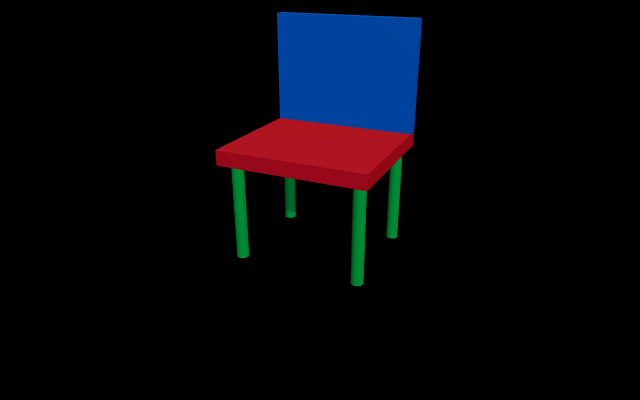
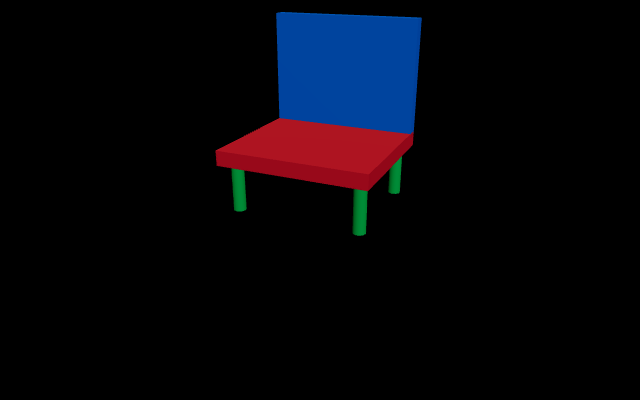
content(audit): track 04-r3f — spot-check pass over all 13 lessons
- portals: Hud sample now renders the main scene before the HUD (priority>0
  disables R3F's automatic render); jsx-mapping: scalar shorthand limited to
  Vector3 props, extend timing, attach-by-type trap; reconciler SVG key label
- disposal: Strict-Mode-safe create-inside-effect taught end to end (theory
  patterns, demo CleanBoxes, fix-leaky-ring exercise); silent re-upload
  symptom for shared-dispose corrected in both locales
- drei: shaderMaterial does not call extend itself; Text = instanced glyph
  quads; Box shorthand has no material; OrbitControls invalidates on every
  change; Environment prefilters inside the renderer; occlusion threshold r/d
- suspense L76: demos lazy-load via React.lazy in lesson-demo-host, not
  server await import; asset-gallery hint dispose claim fixed
- mini-configurator: chair feet now rest on the floor (legs h=0.39 at -0.255),
  reference PNG re-rendered

Changed region(s): [[0.5312, 0.48, 0.625, 0.72], [0.3438, 0.51, 0.4062, 0.66], [0.4375, 0.42, 0.4688, 0.54]]

diff --git a/content/lessons/04-r3f/disposal-and-memory-leaks/exercises.ts b/content/lessons/04-r3f/disposal-and-memory-leaks/exercises.ts
@@ -49,12 +49,12 @@ The plain-JSX version (\`<mesh><sphereGeometry/></mesh>\`): R3F itself creates t
     id: "fix-leaky-ring-with-use-disposable",
     kind: "code",
     prompt: {
-      vi: `Component \`LeakyRing\` bên dưới dựng \`geometry\` và \`material\` bằng \`new THREE.X()\` rồi gắn vào scene qua \`<primitive object={mesh} />\` — đúng trường hợp R3F không tự dispose được. Sửa lại bằng \`useDisposable\` (hook nhà của nền tảng này, \`lib/hooks/use-disposable.ts\`) để \`geometry\` và \`material\` được dispose đúng lúc component unmount — không đổi hình dạng hay màu sắc hiển thị.`,
-      en: `The \`LeakyRing\` component below builds \`geometry\` and \`material\` with \`new THREE.X()\` and attaches them to the scene via \`<primitive object={mesh} />\` — exactly the case R3F can't auto-dispose. Fix it with \`useDisposable\` (this platform's house hook, \`lib/hooks/use-disposable.ts\`) so \`geometry\` and \`material\` get disposed the moment the component unmounts — without changing the rendered shape or color.`,
+      vi: `Component \`LeakyRing\` bên dưới dựng \`geometry\` và \`material\` bằng \`new THREE.X()\` rồi gắn vào scene qua \`<primitive object={mesh} />\` — đúng trường hợp R3F không tự dispose được. Sửa lại bằng \`createDisposableRegistry\` (từ file hook nhà của nền tảng, \`lib/hooks/use-disposable.ts\`): tạo VÀ đăng ký object bên trong một \`useEffect\`, cleanup gọi \`registry.disposeAll()\` — như vậy \`geometry\` và \`material\` được dispose đúng lúc unmount, và chu kỳ unmount/remount giả lập của Strict Mode sẽ dựng bộ object mới thay vì dùng lại object đã bị dispose. Không đổi hình dạng hay màu sắc hiển thị.`,
+      en: `The \`LeakyRing\` component below builds \`geometry\` and \`material\` with \`new THREE.X()\` and attaches them to the scene via \`<primitive object={mesh} />\` — exactly the case R3F can't auto-dispose. Fix it with \`createDisposableRegistry\` (from this platform's house hook file, \`lib/hooks/use-disposable.ts\`): create AND register the objects inside a \`useEffect\` whose cleanup calls \`registry.disposeAll()\` — that way \`geometry\` and \`material\` are disposed the moment the component unmounts, and Strict Mode's simulated unmount/remount cycle builds a fresh set of objects instead of reusing disposed ones. Don't change the rendered shape or color.`,
     },
     starterCode: `import { useMemo } from "react";
 import * as THREE from "three";
-import { useDisposable } from "@/lib/hooks/use-disposable";
+import { createDisposableRegistry } from "@/lib/hooks/use-disposable";
 
 // BUG: geometry/material built with \`new\`, never disposed — every mount
 // leaks one geometry + one material forever.
@@ -69,52 +69,55 @@ function LeakyRing() {
     [geometry, material],
   );
 
-  // TODO: use useDisposable() to register \`geometry\` and \`material\` so
-  // they get disposed automatically when LeakyRing unmounts.
+  // TODO: move the \`new\` calls into a useEffect that owns its own
+  // createDisposableRegistry() — register both objects there and dispose
+  // them in the effect cleanup.
 
   return <primitive object={mesh} />;
 }`,
-    solutionCode: `import { useMemo } from "react";
+    solutionCode: `import { useEffect, useState } from "react";
 import * as THREE from "three";
-import { useDisposable } from "@/lib/hooks/use-disposable";
+import { createDisposableRegistry } from "@/lib/hooks/use-disposable";
 
 function CleanRing() {
-  const disposables = useDisposable();
+  const [mesh, setMesh] = useState<THREE.Mesh | null>(null);
 
-  const geometry = useMemo(
-    () => disposables.register(new THREE.RingGeometry(0.5, 1, 32)),
-    [disposables],
-  );
-  const material = useMemo(
-    () =>
-      disposables.register(new THREE.MeshBasicMaterial({ color: "#f97316" })),
-    [disposables],
-  );
-  const mesh = useMemo(
-    () => new THREE.Mesh(geometry, material),
-    [geometry, material],
-  );
+  // Each effect run owns its registry: Strict Mode's simulated unmount
+  // disposes one set, the re-run builds a fresh one — nothing dead survives.
+  useEffect(() => {
+    const registry = createDisposableRegistry();
+    const geometry = registry.register(new THREE.RingGeometry(0.5, 1, 32));
+    const material = registry.register(
+      new THREE.MeshBasicMaterial({ color: "#f97316" }),
+    );
+    setMesh(new THREE.Mesh(geometry, material));
+    return () => {
+      registry.disposeAll();
+      setMesh(null);
+    };
+  }, []);
 
+  if (!mesh) return null;
   return <primitive object={mesh} />;
 }`,
     hints: [
       {
-        vi: "`useDisposable()` trả về một registry ổn định qua re-render — gọi `registry.register(obj)` ngay chỗ bạn `new` ra `obj`, nó trả lại chính `obj` đó nguyên vẹn.",
-        en: "`useDisposable()` returns a registry that's stable across re-renders — call `registry.register(obj)` right where you `new` up `obj`; it hands `obj` straight back unchanged.",
+        vi: "Chuyển các lệnh `new THREE.X()` vào trong một `useEffect([])`: mỗi lần effect chạy tự tạo `createDisposableRegistry()` riêng, `registry.register(obj)` trả lại chính `obj` nguyên vẹn, và cleanup gọi `registry.disposeAll()`.",
+        en: "Move the `new THREE.X()` calls inside a `useEffect([])`: each effect run creates its own `createDisposableRegistry()`, `registry.register(obj)` hands `obj` straight back unchanged, and the cleanup calls `registry.disposeAll()`.",
       },
       {
-        vi: "Thêm `disposables` vào dependency array của mỗi `useMemo` liên quan — registry ổn định nên không gây tạo lại geometry/material mỗi lần render.",
-        en: "Add `disposables` to the dependency array of each relevant `useMemo` — the registry is stable, so this doesn't cause geometry/material to be recreated on every render.",
+        vi: "Mesh giờ sinh ra trong effect nên phải đi qua state (`useState<THREE.Mesh | null>`) để tới được JSX — render `null` cho tới khi mesh tồn tại.",
+        en: "The mesh is now born inside the effect, so it must travel through state (`useState<THREE.Mesh | null>`) to reach JSX — render `null` until it exists.",
       },
     ],
     checklist: [
       {
-        vi: "Cả `geometry` và `material` đều được bọc qua `disposables.register(...)`",
-        en: "Both `geometry` and `material` are wrapped through `disposables.register(...)`",
+        vi: "Cả `geometry` và `material` đều được tạo và `register(...)` bên trong effect, cleanup gọi `registry.disposeAll()`",
+        en: "Both `geometry` and `material` are created and `register(...)`-ed inside the effect, with the cleanup calling `registry.disposeAll()`",
       },
       {
-        vi: "`disposables` nằm trong dependency array của cả hai `useMemo` liên quan",
-        en: "`disposables` is included in the dependency array of both relevant `useMemo` calls",
+        vi: "Không còn `useMemo` nào giữ object disposable — dưới Strict Mode object memo hoá sẽ quay lại ở trạng thái đã bị dispose",
+        en: "No `useMemo` holds a disposable object anymore — under Strict Mode a memoized object would come back already disposed",
       },
       {
         vi: "Component vẫn render đúng chiếc nhẫn màu cam như trước khi sửa, chỉ khác ở việc dispose khi unmount",

diff --git a/content/lessons/04-r3f/drei-essentials/exercises.ts b/content/lessons/04-r3f/drei-essentials/exercises.ts
@@ -18,8 +18,8 @@ Without running code: explain how (A)'s per-frame raycast cost scales with $n$ (
         en: "Each `<Html occlude>` raycasts independently, sharing no result with other instances — n markers means n raycasts, each one sweeping through the scene's meshes looking for the nearest hit.",
       },
       {
-        vi: "Với một quả cầu, một marker bị che khi và chỉ khi nó nằm ở \"nửa sau\" nhìn từ camera — điều này suy ra trực tiếp từ dấu của một dot product, không cần bắn tia hình học thật.",
-        en: "For a sphere, a marker is occluded exactly when it sits on the \"far half\" as seen from the camera — that falls straight out of the sign of a dot product, no real geometric ray needed.",
+        vi: "Với một quả cầu, ranh giới thấy/không thấy là đường chân trời mà camera nhìn thấy trên mặt cầu — một phép so sánh dot product với ngưỡng phụ thuộc bán kính và khoảng cách camera, không cần bắn tia hình học thật.",
+        en: "For a sphere, the visible/hidden boundary is the horizon circle the camera sees on the sphere — one dot-product comparison against a threshold built from the radius and the camera distance, no real geometric ray needed.",
       },
     ],
     checklist: [
@@ -39,12 +39,12 @@ Without running code: explain how (A)'s per-frame raycast cost scales with $n$ (
     solutionNote: {
       vi: `(A) 40× \`<Html occlude>\`: mỗi instance tự raycast từ camera tới đúng điểm neo của NÓ, kiểm tra va chạm với các mesh trong scene — $n$ marker × $m$ mesh occluder nên chi phí xấp xỉ $O(n \\cdot m)$ raycast test mỗi frame, không chia sẻ được giữa các marker dù chúng cùng bị một quả cầu duy nhất che.
 
-(B) Occluder là một quả cầu tâm $C$, bán kính $r$. Marker tại vị trí $P$ bị che khi nó nằm ở nửa hướng ra xa camera: tính \`toMarker = normalize(P - C)\` và \`toCamera = normalize(camera.position - C)\`, marker hiển thị khi \`dot(toMarker, toCamera) > 0\`.
+(B) Occluder là một quả cầu tâm $C$, bán kính $r$; camera cách tâm $d = |camera.position - C|$. Từ khoảng cách hữu hạn, camera thấy ÍT hơn một nửa quả cầu — đường chân trời là vòng tròn tiếp tuyến, nơi $\cos\theta = r/d$. Tính \`toMarker = normalize(P - C)\` và \`toCamera = normalize(camera.position - C)\`: marker hiển thị khi \`dot(toMarker, toCamera) > r / d\` (ngưỡng $0$ — "đúng nửa cầu" — chỉ là xấp xỉ khi camera ở rất xa).
 
 Đây chỉ là một dot product mỗi marker, không raycast, không phụ thuộc số mesh khác trong scene, nên chi phí là $O(n)$ thay vì $O(n \\cdot m)$. Vẫn nên dùng (A) khi occluder không phải hình đơn giản (mesh bất kỳ, nhiều lớp che nhau) hoặc số marker quá ít để chênh lệch hiệu năng còn đáng để viết code riêng.`,
       en: `(A) 40× \`<Html occlude>\`: each instance raycasts from the camera to its OWN anchor point, checking against the scene's meshes — $n$ markers × $m$ occluder meshes means a per-frame cost of roughly $O(n \\cdot m)$ raycast tests, with no sharing between markers even though they're all occluded by the same single sphere.
 
-(B) The occluder is a sphere centered at $C$ with radius $r$. A marker at position $P$ is occluded when it sits on the half facing away from the camera: compute \`toMarker = normalize(P - C)\` and \`toCamera = normalize(camera.position - C)\`; the marker is visible when \`dot(toMarker, toCamera) > 0\`.
+(B) The occluder is a sphere centered at $C$ with radius $r$; the camera sits at distance $d = |camera.position - C|$. From a finite distance the camera sees LESS than half the sphere — the horizon is the tangency circle, where $\cos\theta = r/d$. Compute \`toMarker = normalize(P - C)\` and \`toCamera = normalize(camera.position - C)\`: the marker is visible when \`dot(toMarker, toCamera) > r / d\` (the $0$ threshold — "exactly half the sphere" — is only the far-camera approximation).
 
 That's one dot product per marker, no raycasting, with no dependency on how many other meshes are in the scene — so the cost is $O(n)$ instead of $O(n \\cdot m)$. Approach (A) is still worth using when the occluder isn't a simple shape (an arbitrary mesh, multiple overlapping occluders) or when the marker count is too small for the performance gap to be worth writing dedicated code for.`,
     },

diff --git a/content/lessons/04-r3f/disposal-and-memory-leaks/demo.tsx b/content/lessons/04-r3f/disposal-and-memory-leaks/demo.tsx
@@ -1,19 +1,19 @@
 "use client";
 
-import { useMemo, useRef, useState } from "react";
+import { useEffect, useMemo, useRef, useState } from "react";
 import { useLocale } from "next-intl";
 import * as THREE from "three";
 import { useFrame, useThree } from "@react-three/fiber";
 import { Demo } from "@/components/viz/demo";
 import { DemoCanvas } from "@/components/viz/demo-canvas";
 import { Button } from "@/components/ui/button";
-import { useDisposable } from "@/lib/hooks/use-disposable";
+import { createDisposableRegistry } from "@/lib/hooks/use-disposable";
 
 const LABELS = {
   vi: {
     title: "Mount/unmount stress test: leak vs không leak",
     leakyTitle: "Leaky — new THREE.X(), không dispose",
-    cleanTitle: "Clean — JSX auto-dispose + useDisposable",
+    cleanTitle: "Clean — JSX auto-dispose + disposable registry",
     mount: "Mount",
     unmount: "Unmount",
     geo: "geo",
@@ -23,7 +23,7 @@ const LABELS = {
   en: {
     title: "Mount/Unmount Stress Test: Leaky vs Clean",
     leakyTitle: "Leaky — new THREE.X(), never disposed",
-    cleanTitle: "Clean — JSX auto-dispose + useDisposable",
+    cleanTitle: "Clean — JSX auto-dispose + disposable registry",
     mount: "Mount",
     unmount: "Unmount",
     geo: "geo",
@@ -87,26 +87,32 @@ function LeakyBoxes() {
 // Clean: 9 boxes are plain JSX — R3F itself instantiated that geometry and
 // material from the <boxGeometry>/<meshStandardMaterial> tags, so its
 // auto-dispose pass frees them on unmount. Box #0 is built imperatively on
-// purpose (same shape as the leak above) but registered with this
-// platform's useDisposable hook, whose own unmount effect disposes it —
+// purpose (same shape as the leak above) but created inside an effect that
+// owns a disposable registry and disposes it in its cleanup —
 // proving the fix is "register cleanup", not "avoid new THREE.X()".
 function CleanBoxes() {
-  const disposables = useDisposable();
-
-  const manualMesh = useMemo(() => {
-    const geometry = disposables.register(new THREE.BoxGeometry(0.5, 0.5, 0.5));
-    const material = disposables.register(
+  // Created inside an effect, not useMemo: Strict Mode's simulated unmount
+  // disposes the registry, and a memoized object would come back dead.
+  const [manualMesh, setManualMesh] = useState<THREE.Mesh | null>(null);
+  useEffect(() => {
+    const registry = createDisposableRegistry();
+    const geometry = registry.register(new THREE.BoxGeometry(0.5, 0.5, 0.5));
+    const material = registry.register(
       new THREE.MeshStandardMaterial({ color: "#22c55e" }),
     );
-    material.map = disposables.register(makeSolidTexture([200, 255, 220]));
+    material.map = registry.register(makeSolidTexture([200, 255, 220]));
     const mesh = new THREE.Mesh(geometry, material);
     mesh.position.set(...POSITIONS[0]!);
-    return mesh;
-  }, [disposables]);
+    setManualMesh(mesh);
+    return () => {
+      registry.disposeAll();
+      setManualMesh(null);
+    };
+  }, []);
 
   return (
     <>
-      <primitive object={manualMesh} />
+      {manualMesh && <primitive object={manualMesh} />}
       {POSITIONS.slice(1).map((pos, i) => (
         <mesh key={i} position={pos}>
           <boxGeometry args={[0.5, 0.5, 0.5]} />

diff --git a/content/lessons/04-r3f/checkpoint-asset-gallery/exercises.ts b/content/lessons/04-r3f/checkpoint-asset-gallery/exercises.ts
@@ -175,8 +175,8 @@ export function AssetGallery({ active }: { active: boolean }) {
         en: "Each slot needs its OWN Suspense — wrapping a single Suspense around all 3 `<Exhibit>`s forces ALL of them to wait for the slowest slot (2200ms) before any can show, losing the whole benefit of loading independently.",
       },
       {
-        vi: "Pedestal geometry/material tạo Ở MODULE SCOPE, gán vào `<mesh>` qua prop `geometry=`/`material=` — không viết `<boxGeometry />`/`<meshStandardMaterial />` như JSX con, nếu không R3F sẽ coi đó là instance riêng của từng slot và tự dispose khi 1 slot unmount, ảnh hưởng các slot khác.",
-        en: "Build pedestal geometry/material AT MODULE SCOPE, assign to `<mesh>` via the `geometry=`/`material=` prop — don't write `<boxGeometry />`/`<meshStandardMaterial />` as JSX children, or R3F will treat them as each slot's own instance and auto-dispose them when one slot unmounts, breaking the others.",
+        vi: "Pedestal geometry/material tạo Ở MODULE SCOPE, gán vào `<mesh>` qua prop `geometry=`/`material=` — không viết `<boxGeometry />`/`<meshStandardMaterial />` như JSX con — mỗi slot sẽ tạo instance riêng của nó, tức 3 bản sao giống hệt nhau trên GPU thay vì một bộ dùng chung.",
+        en: "Build pedestal geometry/material AT MODULE SCOPE, assign to `<mesh>` via the `geometry=`/`material=` prop — don't write `<boxGeometry />`/`<meshStandardMaterial />` as JSX children — each slot would then create its own instance, i.e. 3 identical copies on the GPU instead of one shared set.",
       },
       {
         vi: "`DelayedLoader` nhận tham số constructor (`build`, `delayMs`) nên không thể truyền dạng class trực tiếp cho `useLoader` như với `GLTFLoader` — phải tự tạo instance trước rồi truyền instance đó vào `useLoader`, đúng pattern ở bài `suspense-and-asset-loading`.",

diff --git a/content/lessons/04-r3f/checkpoint-mini-configurator/exercises.ts b/content/lessons/04-r3f/checkpoint-mini-configurator/exercises.ts
@@ -62,10 +62,10 @@ function ChairModel({
   });
 
   const legPositions: [number, number, number][] = [
-    [-0.5, -0.42, -0.42],
-    [0.5, -0.42, -0.42],
-    [-0.5, -0.42, 0.42],
-    [0.5, -0.42, 0.42],
+    [-0.5, -0.255, -0.42],
+    [0.5, -0.255, -0.42],
+    [-0.5, -0.255, 0.42],
+    [0.5, -0.255, 0.42],
   ];
 
   return (
@@ -157,7 +157,7 @@ function ChairModel({
   // the cleanup effect below).
   const boxGeometry = useMemo(() => new THREE.BoxGeometry(1, 1, 1), []);
   const legGeometry = useMemo(
-    () => new THREE.CylinderGeometry(0.05, 0.05, 0.9, 12),
+    () => new THREE.CylinderGeometry(0.05, 0.05, 0.39, 12),
     [],
   );
 
@@ -178,10 +178,10 @@ function ChairModel({
   });
 
   const legPositions: [number, number, number][] = [
-    [-0.5, -0.42, -0.42],
-    [0.5, -0.42, -0.42],
-    [-0.5, -0.42, 0.42],
-    [0.5, -0.42, 0.42],
+    [-0.5, -0.255, -0.42],
+    [0.5, -0.255, -0.42],
+    [-0.5, -0.255, 0.42],
+    [0.5, -0.255, 0.42],
   ];
 
   return (
